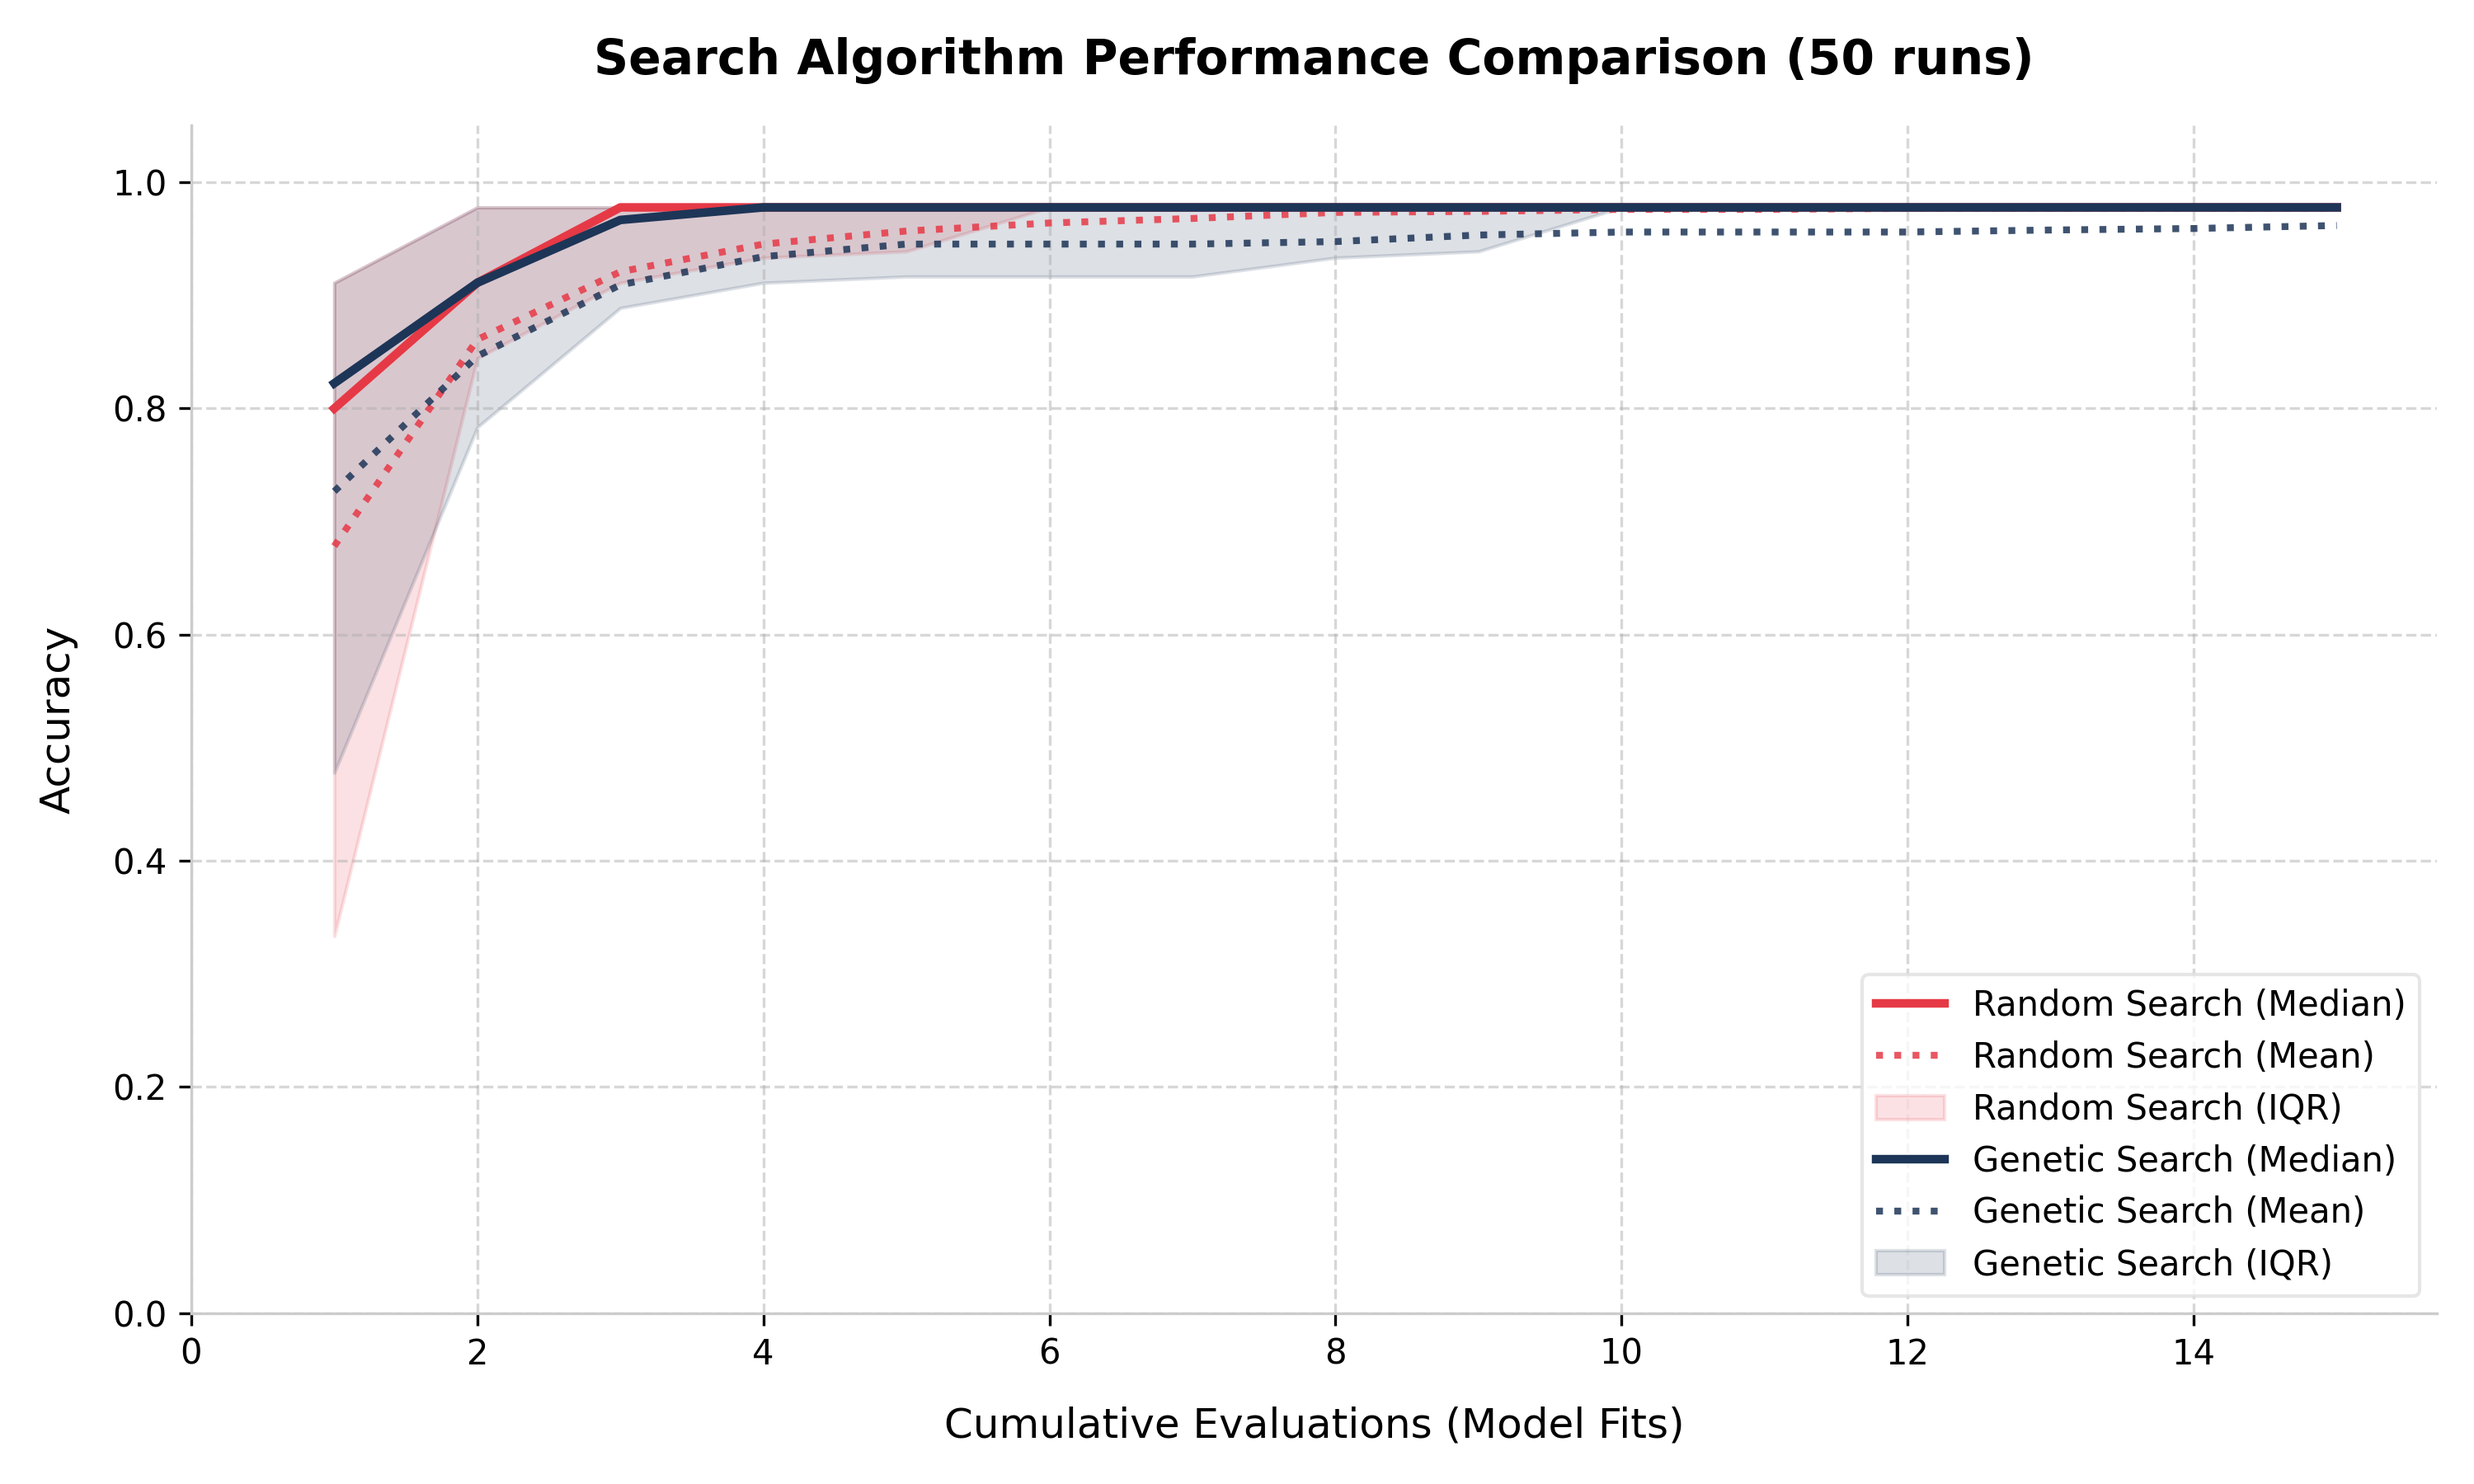
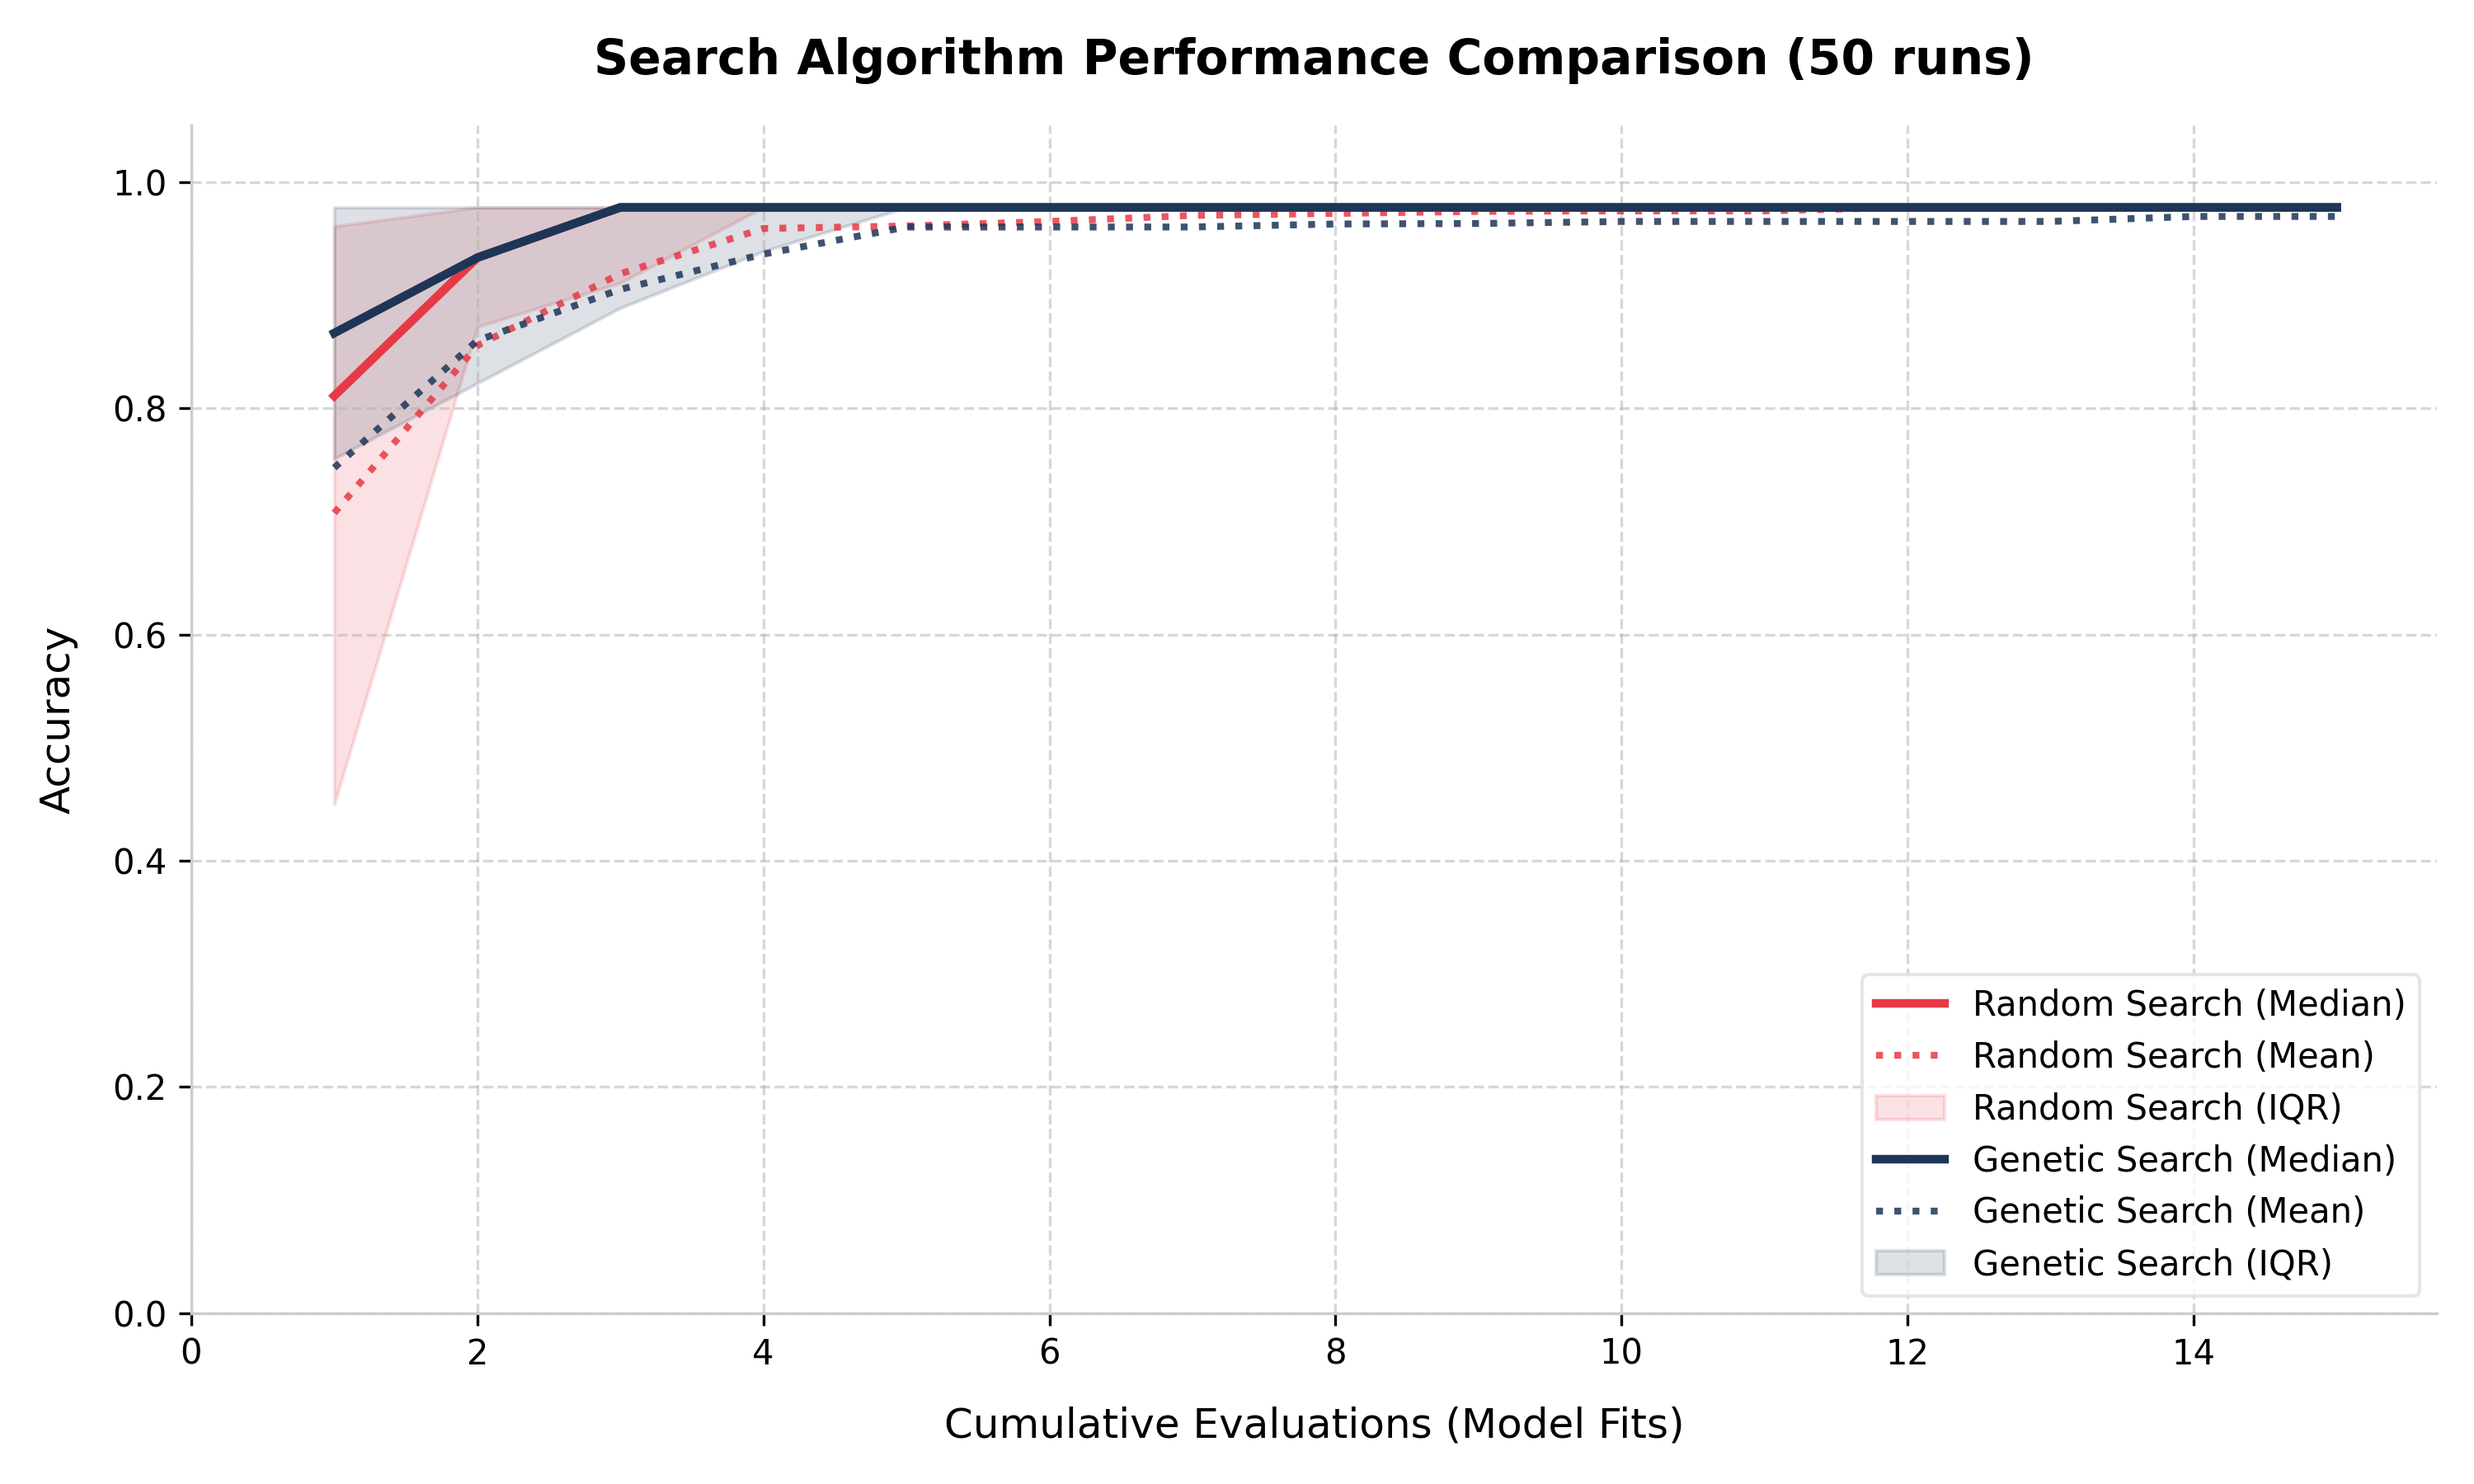
feat: reuse test data from the main chart to the other bar charts

Changed region(s): [[0.124, 0.1244, 0.744, 0.6222], [0.806, 0.1244, 0.93, 0.1556]]

diff --git a/core/src/tests/mlp_test.py b/core/src/tests/mlp_test.py
@@ -2,31 +2,28 @@
 Testes para o módulo random_search.py
 Cada função de teste verifica uma etapa por vez.
 """
-import sys
-import os
-# sys.path.insert(0, os.path.abspath(os.path.join(os.path.dirname(__file__), '..', 'mpl')))
+
 from mlp import random_search
 
 from sklearn.neural_network import MLPClassifier
 
 VALORES_VALIDOS = {
     "hidden_neurons_size": [3, 5, 10, 15, 20, 25, 30],
-    "activation":          ["relu", "tanh", "logistic"],
-    "alpha":               [0.0001, 0.001, 0.01, 0.1],
-    "solver":              ["adam", "sgd"],
-    "max_iterations":      [10, 100, 500, 1000, 2000],
-    "scaler":              ["standard", "minmax", "robust"],
+    "activation": ["relu", "tanh", "logistic"],
+    "alpha": [0.0001, 0.001, 0.01, 0.1],
+    "solver": ["adam", "sgd"],
+    "max_iterations": [10, 100, 500, 1000, 2000],
+    "scaler": ["standard", "minmax", "robust"],
 }
 
-NUM_BUSCAS_RAPIDO = 5   # valor pequeno = agilidade.
+NUM_BUSCAS_RAPIDO = 5
+
 
 def test_get_params_retorna_dicionario():
     """get_params() deve retornar um dicionário (dict)."""
     resultado = random_search.get_params(num_searchs=NUM_BUSCAS_RAPIDO)
 
-    assert isinstance(resultado, dict), (
-        f"Esperava dict, mas recebeu {type(resultado)}"
-    )
+    assert isinstance(resultado, dict), f"Esperava dict, mas recebeu {type(resultado)}"
 
     print("OK  test_get_params_retorna_dicionario")
 
@@ -35,7 +32,13 @@ def test_get_params_possui_todas_as_chaves():
     """O dicionário retornado deve ter exatamente as 5 chaves esperadas."""
     resultado = random_search.get_params(num_searchs=NUM_BUSCAS_RAPIDO)
 
-    chaves_esperadas = {"best_accuracy", "best_params", "worst_accuracy", "worst_params", "historic"}
+    chaves_esperadas = {
+        "best_accuracy",
+        "best_params",
+        "worst_accuracy",
+        "worst_params",
+        "historic",
+    }
     chaves_recebidas = set(resultado.keys())
 
     assert chaves_recebidas == chaves_esperadas, (
@@ -70,6 +73,7 @@ def test_get_params_historic_tem_tamanho_correto():
     )
 
     print("OK  test_get_params_historic_tem_tamanho_correto")
+
 
 def test_best_params_tem_todas_as_chaves():
     """
@@ -175,7 +179,7 @@ def test_best_accuracy_maior_ou_igual_a_worst_accuracy():
     """
     resultado = random_search.get_params(num_searchs=NUM_BUSCAS_RAPIDO)
 
-    best  = resultado["best_accuracy"]
+    best = resultado["best_accuracy"]
     worst = resultado["worst_accuracy"]
 
     assert best >= worst, (
@@ -183,6 +187,7 @@ def test_best_accuracy_maior_ou_igual_a_worst_accuracy():
     )
 
     print("OK  test_best_accuracy_maior_ou_igual_a_worst_accuracy")
+
 
 def test_best_accuracy_bate_com_maximo_do_historico():
     """
@@ -226,10 +231,13 @@ def test_cada_item_do_historico_tem_accuracy_e_params():
     resultado = random_search.get_params(num_searchs=NUM_BUSCAS_RAPIDO)
 
     for i, item in enumerate(resultado["historic"]):
-        assert hasattr(item, "accuracy"), f"Item {i} do histórico sem atributo 'accuracy'"
-        assert hasattr(item, "params"),   f"Item {i} do histórico sem atributo 'params'"
+        assert hasattr(item, "accuracy"), (
+            f"Item {i} do histórico sem atributo 'accuracy'"
+        )
+        assert hasattr(item, "params"), f"Item {i} do histórico sem atributo 'params'"
 
     print("OK  test_cada_item_do_historico_tem_accuracy_e_params")
+
 
 def test_get_best_mlp_retorna_mlpclassifier():
     mlp, scaler = random_search.get_best_mlp(num_searchs=NUM_BUSCAS_RAPIDO)
@@ -254,7 +262,11 @@ def test_get_worst_mlp_retorna_mlpclassifier():
 def test_get_best_mlp_usa_parametros_validos():
     mlp, scaler = random_search.get_best_mlp(num_searchs=NUM_BUSCAS_RAPIDO)
 
-    neuronio = mlp.hidden_layer_sizes if isinstance(mlp.hidden_layer_sizes, int) else mlp.hidden_layer_sizes[0]
+    neuronio = (
+        mlp.hidden_layer_sizes
+        if isinstance(mlp.hidden_layer_sizes, int)
+        else mlp.hidden_layer_sizes[0]
+    )
 
     assert neuronio in VALORES_VALIDOS["hidden_neurons_size"], (
         f"hidden_layer_sizes inválido: {neuronio}"
@@ -262,17 +274,14 @@ def test_get_best_mlp_usa_parametros_validos():
     assert mlp.activation in VALORES_VALIDOS["activation"], (
         f"activation inválido: {mlp.activation}"
     )
-    assert mlp.alpha in VALORES_VALIDOS["alpha"], (
-        f"alpha inválido: {mlp.alpha}"
-    )
-    assert mlp.solver in VALORES_VALIDOS["solver"], (
-        f"solver inválido: {mlp.solver}"
-    )
+    assert mlp.alpha in VALORES_VALIDOS["alpha"], f"alpha inválido: {mlp.alpha}"
+    assert mlp.solver in VALORES_VALIDOS["solver"], f"solver inválido: {mlp.solver}"
     assert mlp.max_iter in VALORES_VALIDOS["max_iterations"], (
         f"max_iter inválido: {mlp.max_iter}"
     )
 
     print("OK  test_get_best_mlp_usa_parametros_validos")
+
 
 def test_get_params_com_uma_busca():
     """
@@ -281,38 +290,32 @@ def test_get_params_com_uma_busca():
     """
     resultado = random_search.get_params(num_searchs=1)
 
-    assert len(resultado["historic"]) == 1, (
-        "Histórico deveria ter exatamente 1 item"
-    )
+    assert len(resultado["historic"]) == 1, "Histórico deveria ter exatamente 1 item"
     assert resultado["best_accuracy"] == resultado["worst_accuracy"], (
         "Com 1 busca, best e worst deveriam ser iguais"
     )
 
     print("OK  test_get_params_com_uma_busca")
 
+
 TODOS_OS_TESTES = [
     test_get_params_retorna_dicionario,
     test_get_params_possui_todas_as_chaves,
     test_get_params_historic_e_lista,
     test_get_params_historic_tem_tamanho_correto,
-
     test_best_params_tem_todas_as_chaves,
     test_worst_params_tem_todas_as_chaves,
     test_best_params_valores_dentro_do_espaco_de_busca,
     test_worst_params_valores_dentro_do_espaco_de_busca,
-
     test_best_accuracy_e_float_entre_0_e_1,
     test_worst_accuracy_e_float_entre_0_e_1,
     test_best_accuracy_maior_ou_igual_a_worst_accuracy,
-
     test_best_accuracy_bate_com_maximo_do_historico,
     test_worst_accuracy_bate_com_minimo_do_historico,
     test_cada_item_do_historico_tem_accuracy_e_params,
-
     test_get_best_mlp_retorna_mlpclassifier,
     test_get_worst_mlp_retorna_mlpclassifier,
     test_get_best_mlp_usa_parametros_validos,
-
     test_get_params_com_uma_busca,
 ]
 
@@ -344,3 +347,4 @@ if __name__ == "__main__":
         print("\nDetalhes das falhas:")
         for nome, mensagem in falhas:
             print(f"\n  [{nome}]\n  {mensagem}")
+

diff --git a/core/src/tests/mlp_plots.py b/core/src/tests/mlp_plots.py
@@ -87,27 +87,23 @@ def generate_median_search_comparison_plot(num_samples: int = 15):
         running_max = get_running_max(res["historic"])
         genetic_runs_running_max.append(running_max)
 
-    # Convert lists of lists to arrays for element-wise statistics
-    random_runs_running_max = np.array(random_runs_running_max)  # shape (15, 15)
+    random_runs_running_max = np.array(random_runs_running_max)
     random_medians = np.median(random_runs_running_max, axis=0)
     random_means = np.mean(random_runs_running_max, axis=0)
 
-    genetic_runs_running_max = np.array(genetic_runs_running_max)  # shape (15, 15)
+    genetic_runs_running_max = np.array(genetic_runs_running_max)
     genetic_medians = np.median(genetic_runs_running_max, axis=0)
     genetic_means = np.mean(genetic_runs_running_max, axis=0)
 
-    # Styling of the new plot
     plot.figure(figsize=(10, 6))
     plot.grid(True, linestyle="--", alpha=0.5)
 
     steps_random = range(1, len(random_medians) + 1)
     steps_genetic = range(1, len(genetic_medians) + 1)
 
-    # Color choices
-    color_random = "#E63946"  # Crimson
-    color_genetic = "#1D3557"  # Indigo
+    color_random = "#E63946"
+    color_genetic = "#1D3557"
 
-    # Plot Random Search
     plot.plot(
         steps_random,
         random_medians,
@@ -124,7 +120,7 @@ def generate_median_search_comparison_plot(num_samples: int = 15):
         linewidth=2.0,
         alpha=0.85,
     )
-    # Shading interquartile range (IQR)
+
     random_q25 = np.percentile(random_runs_running_max, 25, axis=0)
     random_q75 = np.percentile(random_runs_running_max, 75, axis=0)
     plot.fill_between(
@@ -136,7 +132,6 @@ def generate_median_search_comparison_plot(num_samples: int = 15):
         label="Random Search (IQR)",
     )
 
-    # Plot Genetic Search
     plot.plot(
         steps_genetic,
         genetic_medians,
@@ -153,7 +148,7 @@ def generate_median_search_comparison_plot(num_samples: int = 15):
         linewidth=2.0,
         alpha=0.85,
     )
-    # Shading interquartile range (IQR)
+
     genetic_q25 = np.percentile(genetic_runs_running_max, 25, axis=0)
     genetic_q75 = np.percentile(genetic_runs_running_max, 75, axis=0)
     plot.fill_between(
@@ -180,7 +175,6 @@ def generate_median_search_comparison_plot(num_samples: int = 15):
     plot.ylim(bottom=0.0, top=1.05)
     plot.xticks(np.arange(0, 16, 2))
 
-    # Clean axes spines
     ax = plot.gca()
     ax.spines["top"].set_visible(False)
     ax.spines["right"].set_visible(False)
@@ -194,6 +188,7 @@ def generate_median_search_comparison_plot(num_samples: int = 15):
     print(
         f"Saved median comparison plot to {PATH_TO_SAVE / 'median_search_comparison.png'}"
     )
+    return random_results, genetic_results
 
 
 def process_and_plot_results():
@@ -206,16 +201,13 @@ def process_and_plot_results():
         "scaler": ("Scalers", "scaler"),
     }
 
-    random_search_results: GetParamsReturn = get_random_params(num_searchs=15)
-    genetic_search_results: GetParamsReturn = get_genetic_params(
-        generations=3, population_size=5
-    )
+    random_results, genetic_results = generate_median_search_comparison_plot(50)
 
-    random_historic = random_search_results["historic"]
-    genetic_historic = genetic_search_results["historic"]
+    random_historic_single = random_results[0]["historic"]
+    genetic_historic_single = genetic_results[0]["historic"]
 
-    random_running = get_running_max(random_historic)
-    genetic_running = get_running_max(genetic_historic)
+    random_running = get_running_max(random_historic_single)
+    genetic_running = get_running_max(genetic_historic_single)
 
     plot.clf()
     plot.plot(range(1, len(random_running) + 1), random_running, label="Random Search")
@@ -229,14 +221,19 @@ def process_and_plot_results():
     plot.savefig(PATH_TO_SAVE / "search_comparison.png")
     plot.close()
 
-    # Generate the new median comparison plot
-    generate_median_search_comparison_plot(50)
+    random_historic_all = []
+    for res in random_results:
+        random_historic_all.extend(res["historic"])
+
+    genetic_historic_all = []
+    for res in genetic_results:
+        genetic_historic_all.extend(res["historic"])
 
     random_grouped = group_accuracies_by_param(
-        random_historic, list(PARAM_CONFIG.keys())
+        random_historic_all, list(PARAM_CONFIG.keys())
     )
     genetic_grouped = group_accuracies_by_param(
-        genetic_historic, list(PARAM_CONFIG.keys())
+        genetic_historic_all, list(PARAM_CONFIG.keys())
     )
 
     for param_key, (title, file_prefix) in PARAM_CONFIG.items():
